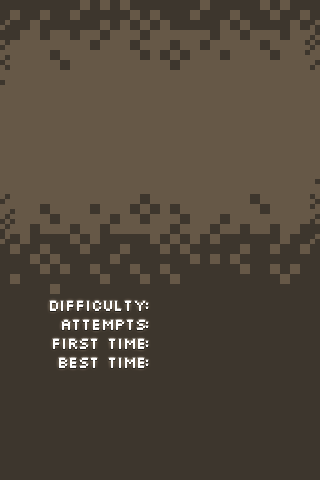
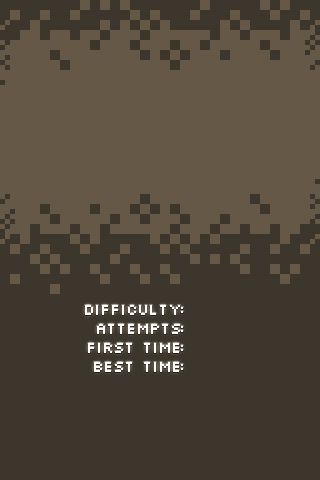
Updated some button/layout graphics/logic

Changed region(s): [[0.1562, 0.625, 0.5938, 0.7812]]

diff --git a/Classes/LevelSelectScene.m b/Classes/LevelSelectScene.m
@@ -41,19 +41,19 @@
 	if ((self = [super init]))
 	{
 		// Set up "previous" button
-		CCMenuItem *previousButton = [CCMenuItemImage itemFromNormalImage:@"prevButton.png" selectedImage:@"prevButtonOn.png" disabledImage:@"prevButton.png" target:self selector:@selector(showPreviousLevel:)];
+		previousButton = [CCMenuItemImage itemFromNormalImage:@"prevButton.png" selectedImage:@"prevButtonOn.png" disabledImage:@"prevButtonDisabled.png" target:self selector:@selector(showPreviousLevel:)];
 		CCMenu *previousButtonMenu = [CCMenu menuWithItems:previousButton, nil];
 		[previousButtonMenu setPosition:ccp(30, 300)];
 		[self addChild:previousButtonMenu z:1];
 		
 		// Set up "next" button
-		CCMenuItem *nextButton = [CCMenuItemImage itemFromNormalImage:@"nextButton.png" selectedImage:@"nextButtonOn.png" disabledImage:@"nextButton.png" target:self selector:@selector(showNextLevel:)];
+		nextButton = [CCMenuItemImage itemFromNormalImage:@"nextButton.png" selectedImage:@"nextButtonOn.png" disabledImage:@"nextButtonDisabled.png" target:self selector:@selector(showNextLevel:)];
 		CCMenu *nextButtonMenu = [CCMenu menuWithItems:nextButton, nil];
 		[nextButtonMenu setPosition:ccp(290, 300)];
 		[self addChild:nextButtonMenu z:1];
 		
 		// Set up play/back buttons
-		CCMenuItem *playButton = [CCMenuItemImage itemFromNormalImage:@"playButton.png" selectedImage:@"playButtonOn.png" disabledImage:@"playButton.png" target:self selector:@selector(playLevel:)];
+		CCMenuItem *playButton = [CCMenuItemImage itemFromNormalImage:@"playButton.png" selectedImage:@"playButtonOn.png" target:self selector:@selector(playLevel:)];
 		CCMenuItem *backButton = [CCMenuItemImage itemFromNormalImage:@"backButton.png" selectedImage:@"backButton.png" target:self selector:@selector(goToTitle:)];
 		CCMenu *playButtonMenu = [CCMenu menuWithItems:playButton, backButton, nil];
 		[playButtonMenu alignItemsVertically];
@@ -69,33 +69,33 @@
 		[headerLabel setPosition:ccp(160, 440)];
 		[headerLabel setColor:ccc3(255,255,255)];
 		[headerLabel.texture setAliasTexParameters];
-		[self addChild:headerLabel z:3];
-		
+		[self addChild:headerLabel z:4];
+
 		// Details for each level
-		//NSLog(@"Difficulty: %@", [[[GameDataManager sharedManager].levels objectAtIndex:[GameDataManager sharedManager].currentLevel - 1] objectForKey:@"difficulty"]);
+		// Difficulty
 		difficultyLabel = [CCLabel labelWithString:[[[GameDataManager sharedManager].levels objectAtIndex:[GameDataManager sharedManager].currentLevel - 1] objectForKey:@"difficulty"] dimensions:CGSizeMake(150, 15) alignment:UITextAlignmentLeft fontName:@"slkscr.ttf" fontSize:16];
-		[difficultyLabel setPosition:ccp(230, 175)];
+		[difficultyLabel setPosition:ccp(265, 171)];
 		[difficultyLabel setColor:ccc3(255,255,255)];
 		[difficultyLabel.texture setAliasTexParameters];
 		[self addChild:difficultyLabel z:3];
 		
-		//NSLog(@"Attempts: %@", [[levelTimes objectAtIndex:[GameDataManager sharedManager].currentLevel - 1] objectForKey:@"attempts"]);
+		// # of attempts
 		attemptsLabel = [CCLabel labelWithString:[NSString stringWithFormat:@"%@", [[levelTimes objectAtIndex:[GameDataManager sharedManager].currentLevel - 1] objectForKey:@"attempts"]] dimensions:CGSizeMake(150, 15) alignment:UITextAlignmentLeft fontName:@"slkscr.ttf" fontSize:16];
-		[attemptsLabel setPosition:ccp(230, 156)];
+		[attemptsLabel setPosition:ccp(265, 152)];
 		[attemptsLabel setColor:ccc3(255,255,255)];
 		[attemptsLabel.texture setAliasTexParameters];
 		[self addChild:attemptsLabel z:3];
 		
-		//NSLog(@"First time for level %i: %@", [GameDataManager sharedManager].currentLevel, [[levelTimes objectAtIndex:[GameDataManager sharedManager].currentLevel - 1] objectForKey:@"firstTime"]);
+		// First time completed
 		firstTimeLabel = [CCLabel labelWithString:[[levelTimes objectAtIndex:[GameDataManager sharedManager].currentLevel - 1] objectForKey:@"firstTime"] dimensions:CGSizeMake(150, 15) alignment:UITextAlignmentLeft fontName:@"slkscr.ttf" fontSize:16];
-		[firstTimeLabel setPosition:ccp(230, 137)];
+		[firstTimeLabel setPosition:ccp(265, 133)];
 		[firstTimeLabel setColor:ccc3(255,255,255)];
 		[firstTimeLabel.texture setAliasTexParameters];
 		[self addChild:firstTimeLabel z:3];
 		
-		//NSLog(@"Best time for level %i: %@", [GameDataManager sharedManager].currentLevel, [[levelTimes objectAtIndex:[GameDataManager sharedManager].currentLevel - 1] objectForKey:@"bestTime"]);
+		// Best time completed
 		bestTimeLabel = [CCLabel labelWithString:[[levelTimes objectAtIndex:[GameDataManager sharedManager].currentLevel - 1] objectForKey:@"bestTime"] dimensions:CGSizeMake(150, 15) alignment:UITextAlignmentLeft fontName:@"slkscr.ttf" fontSize:16];
-		[bestTimeLabel setPosition:ccp(230, 118)];
+		[bestTimeLabel setPosition:ccp(265, 114)];
 		[bestTimeLabel setColor:ccc3(255,255,255)];
 		[bestTimeLabel.texture setAliasTexParameters];
 		[self addChild:bestTimeLabel z:3];
@@ -146,6 +146,17 @@
 			[self addChild:s];
 			[levelDisplayList insertObject:s atIndex:i];
 		}
+		
+		// Set prev/next buttons as disabled if needed
+		if ([GameDataManager sharedManager].currentLevel == 1)
+			[previousButton setIsEnabled:FALSE];
+		else
+			[previousButton setIsEnabled:TRUE];
+		
+		if ([GameDataManager sharedManager].currentLevel == [[GameDataManager sharedManager].levels count])
+			[nextButton setIsEnabled:FALSE];
+		else
+			[nextButton setIsEnabled:TRUE];
 	}
 	return self;
 }
@@ -204,6 +215,11 @@
 		[[levelDisplayList objectAtIndex:[GameDataManager sharedManager].currentLevel - 1] runAction:[CCSequence actions:moveOnScreenAction, showLevelDataAction, nil]];
 	}
 	
+	// Muck with enabling/disabling prev/next buttons
+	[nextButton setIsEnabled:TRUE];
+	if ([GameDataManager sharedManager].currentLevel == 1)
+		[previousButton setIsEnabled:FALSE];
+	
 	// Play SFX if allowed
 	if ([GameDataManager sharedManager].playSFX)
 		[[SimpleAudioEngine sharedEngine] playEffect:@"buttonPress.wav"];
@@ -230,6 +246,11 @@
 		[[levelDisplayList objectAtIndex:[GameDataManager sharedManager].currentLevel - 1] runAction:[CCSequence actions:moveOnScreenAction, showLevelDataAction, nil]];
 	}
 	
+	// Muck with enabling/disabling prev/next buttons
+	[previousButton setIsEnabled:TRUE];
+	if ([GameDataManager sharedManager].currentLevel == [[GameDataManager sharedManager].levels count])
+		[nextButton setIsEnabled:FALSE];
+
 	// Play SFX if allowed
 	if ([GameDataManager sharedManager].playSFX)
 		[[SimpleAudioEngine sharedEngine] playEffect:@"buttonPress.wav"];

diff --git a/Classes/PlayScene.m b/Classes/PlayScene.m
@@ -192,9 +192,9 @@
 		
 		// Set up % complete label
 		percentComplete = [CCLabel labelWithString:@"00" fontName:@"slkscr.ttf" fontSize:48];
-		[percentComplete setPosition:ccp(260, 430)];
+		[percentComplete setPosition:ccp(260, 422)];
 		[percentComplete.texture setAliasTexParameters];
-		[percentComplete setColor:ccc3(33, 33, 33)];
+		[percentComplete setColor:ccc3(00, 00, 00)];
 		[self addChild:percentComplete z:3];
 		
 		// Set up timer labels/internal variables/scheduler
@@ -205,13 +205,13 @@
 		
 		minutesLeftLabel = [CCLabel labelWithString:[NSString stringWithFormat:@"%02d", minutesLeft] dimensions:CGSizeMake(100, 100) alignment:UITextAlignmentLeft fontName:@"slkscr.ttf" fontSize:48];
 		[minutesLeftLabel setPosition:ccp(110, 395)];
-		[minutesLeftLabel setColor:ccc3(33, 33, 33)];
+		[minutesLeftLabel setColor:ccc3(00, 00, 00)];
 		[minutesLeftLabel.texture setAliasTexParameters];
 		[self addChild:minutesLeftLabel z:3];
 		
 		secondsLeftLabel = [CCLabel labelWithString:[NSString stringWithFormat:@"%02d", secondsLeft] dimensions:CGSizeMake(100,100) alignment:UITextAlignmentLeft fontName:@"slkscr.ttf" fontSize:48];
 		[secondsLeftLabel setPosition:ccp(110, 355)];
-		[secondsLeftLabel setColor:ccc3(33, 33, 33)];
+		[secondsLeftLabel setColor:ccc3(00, 00, 00)];
 		[secondsLeftLabel.texture setAliasTexParameters];
 		[self addChild:secondsLeftLabel z:3];
 		
@@ -627,9 +627,10 @@
 	
 	// Add buttons to overlay
 	CCMenuItem *continueButton = [CCMenuItemImage itemFromNormalImage:@"continueButton.png" selectedImage:@"continueButtonOn.png" target:self selector:@selector(goToLevelSelect:)];
-	CCMenuItem *tryAgainButton = [CCMenuItemImage itemFromNormalImage:@"continueButton.png" selectedImage:@"continueButtonOn.png" target:self selector:@selector(retryLevel:)];
+	CCMenuItem *retryButton = [CCMenuItemImage itemFromNormalImage:@"retryButton.png" selectedImage:@"retryButtonOn.png" target:self selector:@selector(retryLevel:)];
 	
-	CCMenu *overlayMenu = [CCMenu menuWithItems:tryAgainButton, continueButton, nil];		// Create container menu object
+	CCMenu *overlayMenu = [CCMenu menuWithItems:retryButton, continueButton, nil];		// Create container menu object
+	[overlayMenu alignItemsVertically];
 	[overlayMenu setPosition:ccp(150, 50)];
 	[overlay addChild:overlayMenu];
 	

diff --git a/Classes/NonogramsAppDelegate.m b/Classes/NonogramsAppDelegate.m
@@ -73,7 +73,7 @@
 	[GameDataManager sharedManager].levels = [NSArray arrayWithContentsOfFile:[[NSBundle mainBundle] pathForResource:@"Levels" ofType:@"plist"]];
 	
 	// Set current level for player
-	[GameDataManager sharedManager].currentLevel = 1;
+	[GameDataManager sharedManager].currentLevel = [defaults integerForKey:@"currentLevel"];
 	
 	// Run default scene
 	[[CCDirector sharedDirector] runWithScene: [TitleScene node]];
@@ -92,7 +92,12 @@
 	[[CCTextureCache sharedTextureCache] removeUnusedTextures];
 }
 
-- (void)applicationWillTerminate:(UIApplication *)application {
+- (void)applicationWillTerminate:(UIApplication *)application 
+{
+	// Save current level
+	NSUserDefaults *defaults = [NSUserDefaults standardUserDefaults];
+	[defaults setInteger:[GameDataManager sharedManager].currentLevel forKey:@"currentLevel"];
+	
 	[[CCDirector sharedDirector] end];
 }
 

diff --git a/Classes/TutorialScene.m b/Classes/TutorialScene.m
@@ -210,7 +210,7 @@
 		actions = [CCLabel labelWithString:@"(tap to continue)" dimensions:CGSizeMake(150, 16) alignment:UITextAlignmentRight fontName:@"slkscr.ttf" fontSize:16];
 		[actions setColor:ccc3(00, 00, 00)];
 		[actions.texture setAliasTexParameters];
-		[actions setPosition:ccp(220, 374)];
+		[actions setPosition:ccp(200, 374)];
 		[self addChild:actions];
 	}
 	return self;

diff --git a/Classes/LevelSelectScene.h b/Classes/LevelSelectScene.h
@@ -22,6 +22,10 @@
 	CCLabel *attemptsLabel;
 	CCLabel *firstTimeLabel;
 	CCLabel *bestTimeLabel;
+	
+	// Prev/next buttons
+	CCMenuItem *previousButton;
+	CCMenuItem *nextButton;
 }
 
 - (void)showNextLevel:(id)sender;
